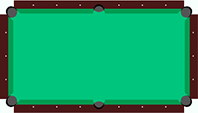
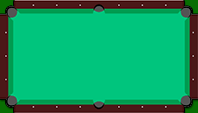
some desigen changes two

diff --git a/main.py b/main.py
@@ -13,11 +13,11 @@ from menu import M_Text
 #Налоштування головного вікна
 window = Tk()
 window.title('Billiards manager V1')
-window.geometry('800x800')
+window.geometry('700x780')
 window.configure(bg='#f7fffd')
 #Налаштування вкладок
 nb = ttk.Notebook(window,height=800)
-nb.pack(pady=10,fill='both')
+nb.pack(pady=5,fill='both')
 Vkladki =['Golovna','Zakaz','Bronik','Menu','Quest']
 i= 0
 while i<=4:
@@ -92,7 +92,7 @@ Zakaz_Time =tk.Label(
         text='Час, з:                     до:     ',
         font=('Arial Black', 12),
         fg='black',
-        bg='#f7fffd',
+        bg='#086e02',
 )
 #
 Zakaz_Time_fHour = ttk.Combobox(
@@ -129,7 +129,7 @@ Zakaz_TextH = tk.Label(
     Vkladki[1],
     text='Кількість           год.           хв.',
     font=('Arial Black', 12),
-    bg='#f7fffd',
+    bg='#086e02',
 )
 
 Zakaz_TimeH_Hour = ttk.Combobox(
@@ -171,7 +171,7 @@ Number = [1,2,3,4,5,6]
 BronNum(0,Number,Vkladki)
 
 Menu_Text = ['1','2','3']
-M_Text(0,Menu_Text,Vkladki,20,'Вхід до панелі адміна')
+M_Text(0,Menu_Text,Vkladki,16,'Вхід до панелі адміна')
 M_Text(1,Menu_Text,Vkladki,12,'Логін:')
 M_Text(2,Menu_Text,Vkladki,12,'Пароль:')
 login = StringVar()
@@ -180,14 +180,14 @@ parol = StringVar()
 M_Login = tk.Entry(
             Vkladki[3],
             width=15,
-            font=('Arial Black', 14),
+            font=('Arial Black', 12),
             textvariable=login
 
 )
 M_Parol = tk.Entry(
             Vkladki[3],
             width=15,
-            font=('Arial Black', 14),
+            font=('Arial Black', 12),
             show='*',
             textvariable=parol
 )
@@ -216,18 +216,18 @@ suma = 100
 def panel():
     if login.get() =='admin':
         if parol.get() == 'admin':
-            AdminPanel = tk.Toplevel(Vkladki[3],bg='#f7fffd')
+            AdminPanel = tk.Toplevel(Vkladki[3],bg='#086e02')
             AdminPanel.geometry('820x500')
             AdminPanel.resizable(False, False)
             AdminText = tk.Label(AdminPanel,
                                  text="Адмін панель",
                                  font=('Arial Black', 18),
-                                 bg='#f7fffd'
+                                 bg='#086e02'
                                  )
             Price_Text = tk.Label(AdminPanel,
                                   text="Вартість оренди за 1 год:",
                                   font=('Arial Black', 12),
-                                  bg='#f7fffd'
+                                  bg='#086e02'
                                   )
             Price = tk.Entry(AdminPanel,
                              width =10,
@@ -241,7 +241,7 @@ def panel():
             Suma_day = tk.Label(AdminPanel,
                                 text =f'В касі мають бути: {suma} грн.',
                                 font=('Arial Black', 12),
-                                bg='#f7fffd'
+                                bg='#086e02'
                                 )
             stat = ['1','7','30']
             static(0,stat,AdminPanel,100,2,3)
@@ -249,7 +249,7 @@ def panel():
             static(2, stat, AdminPanel, 5000, 25, 150)
             stat_Period = ['1','7','30']
             stat_Text(0,stat_Period,AdminPanel,'Вчора')
-            stat_Text(1, stat_Period, AdminPanel, '7 Двів')
+            stat_Text(1, stat_Period, AdminPanel, '7 Днів')
             stat_Text(2, stat_Period, AdminPanel, '30 Днів')
             stat[0].place(x = 20 ,y=180)
             stat[1].place(x = 280,y=180)
@@ -268,7 +268,7 @@ def panel():
                 font=('Arial Black', 14),
                 fg='red',
                 text='Неправильний пароль!!!',
-                bg='#f7fffd',
+                bg='#f0ffff',
             )
             wronk.place(x=35,y=200)
 
@@ -296,12 +296,12 @@ table[3].place(x=470, y=300)
 table[4].place(x=20, y=550)
 table[5].place(x=470, y=550)
 
-text[0].place(x=100, y=20)
-text[1].place(x=550, y=20)
-text[2].place(x=100, y=270)
-text[3].place(x=550, y=270)
-text[4].place(x=100, y=520)
-text[5].place(x=550, y=520)
+text[0].place(x=100, y=19)
+text[1].place(x=550, y=19)
+text[2].place(x=100, y=269)
+text[3].place(x=550, y=269)
+text[4].place(x=100, y=519)
+text[5].place(x=550, y=519)
 
 stan[0].place(x=20, y=165)
 stan[1].place(x=470, y=165)

diff --git a/Golovna.py b/Golovna.py
@@ -7,7 +7,7 @@ def Fon(i,fon,Vkladki):
     while i <= 4:
         fon[i] = tk.Label(
             Vkladki[i],
-            bg='#f7fffd',
+            bg='#086e02',
             height=1000,
             width=800,
         )
@@ -18,7 +18,7 @@ def Stolic(i,table,Vkladki,img):
     while i <= 5:
         table[i] = tk.Label(
             Vkladki[0],
-            bg='#f7fffd',
+            bg = '#086e02',
             image=img
         )
         i += 1
@@ -31,7 +31,7 @@ def Stolic_Text(i,text,Vkladki):
             text=f'№{text[i]}',
             font=('Arial Black', 14),
             fg='black',
-            bg='#f7fffd',
+            bg='#086e02',
         )
         i += 1
 
@@ -42,8 +42,7 @@ def Stolic_time(i,time,Vkladki):
             Vkladki[0],
             text='00:00:00',
             font=('Arial Black', 12),
-            fg='black',
-            bg='#f7fffd',
+            bg='#086e02',
         )
         i += 1
 #Налаштування стилю кнопки скидання
@@ -51,8 +50,9 @@ def Reset(i,res,Vkladki,img):
     while i<=5:
         res[i]=tk.Button(
             Vkladki[0],
-            bg = '#fc2803',
-            image=img
+            bg = '#e82528',
+            image=img,
+
         )
         i += 1
 

diff --git a/Zakaz.py b/Zakaz.py
@@ -8,8 +8,8 @@ def NameZakaz(i,Zakaz_Name,Vkladki,text):
     Zakaz_Name[i] =tk.Label(
         Vkladki[1],
         text = text,
-        font=('Arial Black', 20),
-        bg='#f7fffd'
+        font=('Arial Black', 18),
+        bg='#086e02'
 
     )
 #Стиль кнопок заказів
@@ -21,7 +21,8 @@ def Button_Z(i,Zakaz_B,Vkladki):
             font=('Arial Black', 14),
             width=15,
             height=1,
-            bg='#8cffa7'
+            bg='#8cffa7',
+            relief =RIDGE
         )
         i +=1
 #Стиль  тексту "Номер стола"
@@ -32,6 +33,6 @@ def Number_Tap_text(i,Num_Tab,Vkladki):
             text='Номер Стола:',
             font=('Arial Black', 12),
             fg='black',
-            bg='#f7fffd',
+            bg='#086e02',
         )
         i +=1

diff --git a/Bron.py b/Bron.py
@@ -15,7 +15,7 @@ def BronTime(i,Bron,Vkladki):
             Vkladki[2],
             text=Bron[i],
             font=('Arial Black', 18),
-            bg='#c0fcee',
+            bg='#14802a',
             width=2
         )
         i += 1
@@ -34,7 +34,7 @@ def Bronik(i,Bron,Vkladki):
             Vkladki[2],
             text='+',
             font=('Arial Black', 18),
-            bg='#3de060',
+            bg='#1dd141',
             width=2
         )
         i += 1
@@ -54,7 +54,8 @@ def BronNum(i,text,Vkladki):
             text=f'№{text[i]}',
             font=('Arial Black', 18),
             fg='black',
-            bg='#c0fcee',
+            bg='#14802a',
+            
         )
         i += 1
 

diff --git a/menu.py b/menu.py
@@ -6,7 +6,7 @@ import tkinter.ttk as ttk
 def M_Text(i,Name,Vkladki,Fsize,text):
     Name[i] = tk.Label(
         Vkladki[3],
-        bg = '#f7fffd',
+        bg = '#086e02',
         font=('Arial Black', Fsize),
         text = text,
         )
